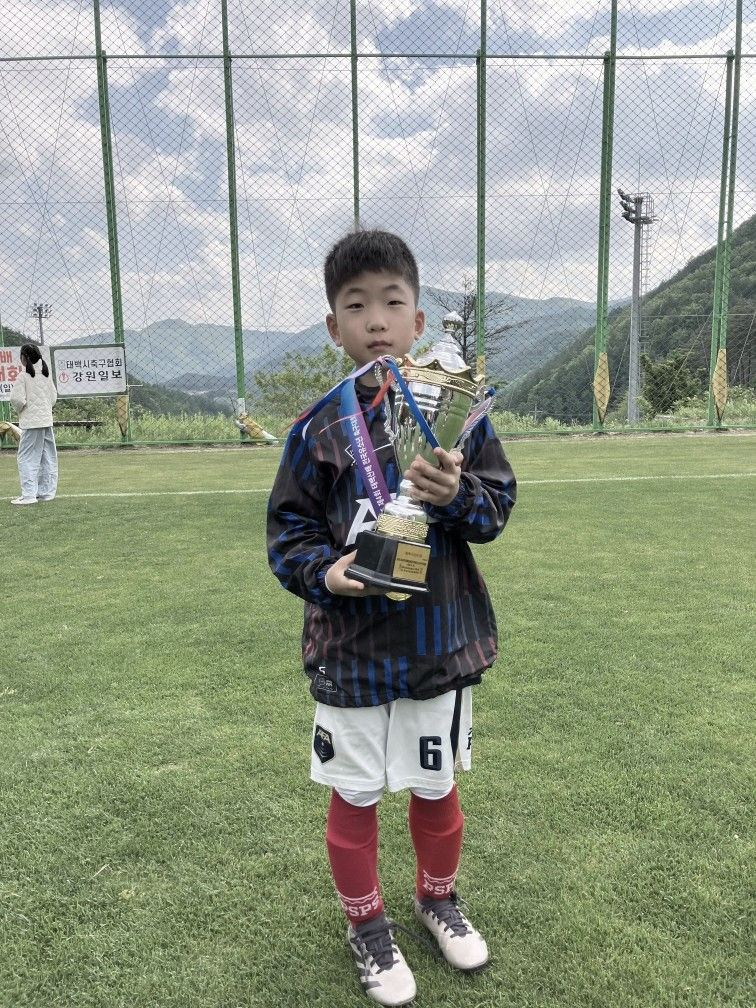
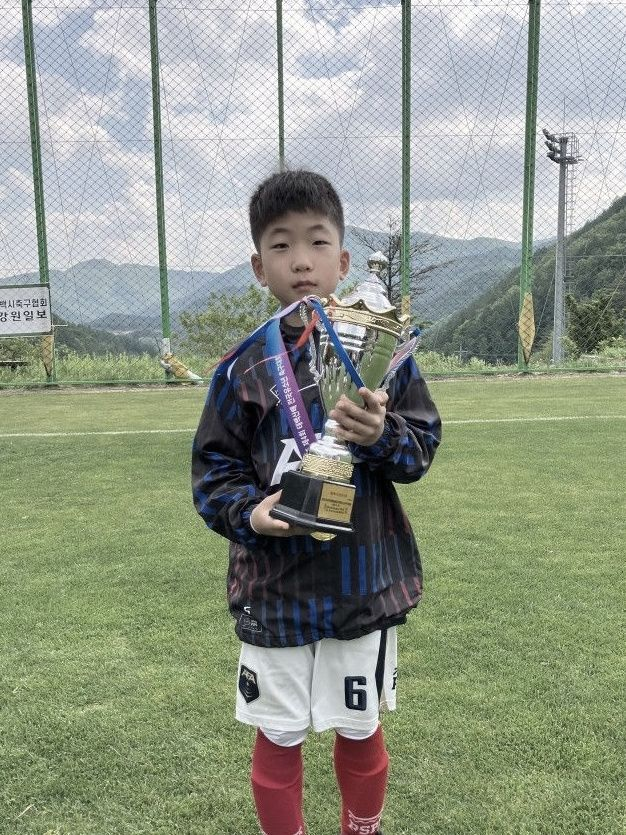
Crop bystander out of hero trophy photo
Claude-Session: https://claude.ai/code/session_01R1BncpvfxeqSzf3roDUtqb

diff --git a/index.html b/index.html
@@ -220,7 +220,7 @@ footer{display:flex;justify-content:space-between;flex-wrap:wrap;gap:8px;border-
 
   <header class="hero">
     <div class="mark">
-      <div class="bg" aria-hidden="true"><img class="hp on" src="assets/img/hero-1.jpg" alt=""><video class="hv" muted playsinline preload="auto"></video></div>
+      <div class="bg" aria-hidden="true"><img class="hp on" src="assets/img/hero-1.jpg?v=2" alt=""><video class="hv" muted playsinline preload="auto"></video></div>
       <div class="rec" aria-hidden="true"><i></i>REC</div>
       <h1 aria-label="Lamborjuni Studio">LAMBORJUNI</h1>
       <div class="sub" aria-hidden="true"><i></i>STUDIO</div>
